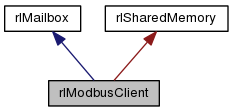
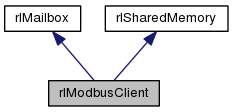
bugfix memoryleak in rlsocket on closesocket

diff --git a/doc/rllib/classrlModbusClient-members.html b/doc/rllib/classrlModbusClient-members.html
@@ -92,54 +92,54 @@ var searchBox = new SearchBox("searchBox", "search",false,'Search');
   <tr><td class="entry"><a class="el" href="classrlMailbox.html#a42dd3ce705f80d0bbfd068222dff6a4aa2d5db9784e32c09f7a0883588ba4d9f0">COULD_NOT_CREATE_MAILBOX</a> enum value</td><td class="entry"><a class="el" href="classrlMailbox.html">rlMailbox</a></td><td class="entry"></td></tr>
   <tr class="even"><td class="entry"><a class="el" href="classrlMailbox.html#a42dd3ce705f80d0bbfd068222dff6a4aa1f33cb4c849558c7f2d84fd0db28e203">COULD_NOT_GET_CHAN_ID</a> enum value</td><td class="entry"><a class="el" href="classrlMailbox.html">rlMailbox</a></td><td class="entry"></td></tr>
   <tr><td class="entry"><a class="el" href="classrlMailbox.html#a42dd3ce705f80d0bbfd068222dff6a4aa7c2128ae7bb7e114bfefc1a875c453d5">COULD_NOT_GET_KEY</a> enum value</td><td class="entry"><a class="el" href="classrlMailbox.html">rlMailbox</a></td><td class="entry"></td></tr>
-  <tr class="even"><td class="entry"><a class="el" href="classrlSharedMemory.html#a0bf250d26a9c57dd3c73d22e5ca98f09">deleteSharedMemory</a>()</td><td class="entry"><a class="el" href="classrlSharedMemory.html">rlSharedMemory</a></td><td class="entry"><span class="mlabel">private</span></td></tr>
-  <tr><td class="entry"><a class="el" href="classrlSharedMemory.html#aa1375e00b92e5a7567a23bdfdb036ae8a2ca716bae614d124d98bf8f74ed0134d">ERROR_FILE</a> enum value</td><td class="entry"><a class="el" href="classrlSharedMemory.html">rlSharedMemory</a></td><td class="entry"><span class="mlabel">private</span></td></tr>
-  <tr class="even"><td class="entry"><a class="el" href="classrlSharedMemory.html#aa1375e00b92e5a7567a23bdfdb036ae8a0db238d56963cbb5b5fc524ecc2affb3">ERROR_SHMAT</a> enum value</td><td class="entry"><a class="el" href="classrlSharedMemory.html">rlSharedMemory</a></td><td class="entry"><span class="mlabel">private</span></td></tr>
-  <tr><td class="entry"><a class="el" href="classrlSharedMemory.html#aa1375e00b92e5a7567a23bdfdb036ae8a9246f094bcbd06239d2fd98bad038e7e">ERROR_SHMCTL</a> enum value</td><td class="entry"><a class="el" href="classrlSharedMemory.html">rlSharedMemory</a></td><td class="entry"><span class="mlabel">private</span></td></tr>
-  <tr class="even"><td class="entry"><a class="el" href="classrlSharedMemory.html#aa1375e00b92e5a7567a23bdfdb036ae8a2aeb0703375cac6aae746caeaea81d5d">ERROR_SHMGET</a> enum value</td><td class="entry"><a class="el" href="classrlSharedMemory.html">rlSharedMemory</a></td><td class="entry"><span class="mlabel">private</span></td></tr>
-  <tr><td class="entry"><a class="el" href="classrlSharedMemory.html#a8f2ac1ae5fe2715c39346be6fa681c12">getUserAdr</a>()</td><td class="entry"><a class="el" href="classrlSharedMemory.html">rlSharedMemory</a></td><td class="entry"><span class="mlabel">private</span></td></tr>
+  <tr class="even"><td class="entry"><a class="el" href="classrlSharedMemory.html#a0bf250d26a9c57dd3c73d22e5ca98f09">deleteSharedMemory</a>()</td><td class="entry"><a class="el" href="classrlSharedMemory.html">rlSharedMemory</a></td><td class="entry"></td></tr>
+  <tr><td class="entry"><a class="el" href="classrlSharedMemory.html#aa1375e00b92e5a7567a23bdfdb036ae8a2ca716bae614d124d98bf8f74ed0134d">ERROR_FILE</a> enum value</td><td class="entry"><a class="el" href="classrlSharedMemory.html">rlSharedMemory</a></td><td class="entry"></td></tr>
+  <tr class="even"><td class="entry"><a class="el" href="classrlSharedMemory.html#aa1375e00b92e5a7567a23bdfdb036ae8a0db238d56963cbb5b5fc524ecc2affb3">ERROR_SHMAT</a> enum value</td><td class="entry"><a class="el" href="classrlSharedMemory.html">rlSharedMemory</a></td><td class="entry"></td></tr>
+  <tr><td class="entry"><a class="el" href="classrlSharedMemory.html#aa1375e00b92e5a7567a23bdfdb036ae8a9246f094bcbd06239d2fd98bad038e7e">ERROR_SHMCTL</a> enum value</td><td class="entry"><a class="el" href="classrlSharedMemory.html">rlSharedMemory</a></td><td class="entry"></td></tr>
+  <tr class="even"><td class="entry"><a class="el" href="classrlSharedMemory.html#aa1375e00b92e5a7567a23bdfdb036ae8a2aeb0703375cac6aae746caeaea81d5d">ERROR_SHMGET</a> enum value</td><td class="entry"><a class="el" href="classrlSharedMemory.html">rlSharedMemory</a></td><td class="entry"></td></tr>
+  <tr><td class="entry"><a class="el" href="classrlSharedMemory.html#a8f2ac1ae5fe2715c39346be6fa681c12">getUserAdr</a>()</td><td class="entry"><a class="el" href="classrlSharedMemory.html">rlSharedMemory</a></td><td class="entry"></td></tr>
   <tr class="even"><td class="entry"><a class="el" href="classrlMailbox.html#a42dd3ce705f80d0bbfd068222dff6a4aa56566ca8baa25529589e069064d96761">MAILBOX_ERROR</a> enum value</td><td class="entry"><a class="el" href="classrlMailbox.html">rlMailbox</a></td><td class="entry"></td></tr>
   <tr><td class="entry"><a class="el" href="classrlMailbox.html#a42dd3ce705f80d0bbfd068222dff6a4aa1d791173dfd19425f877ac5b2e30ddae">MAILBOX_FULL</a> enum value</td><td class="entry"><a class="el" href="classrlMailbox.html">rlMailbox</a></td><td class="entry"></td></tr>
   <tr class="even"><td class="entry"><a class="el" href="classrlMailbox.html#a42dd3ce705f80d0bbfd068222dff6a4a">MailboxEnum</a> enum name</td><td class="entry"><a class="el" href="classrlMailbox.html">rlMailbox</a></td><td class="entry"></td></tr>
   <tr><td class="entry"><a class="el" href="classrlMailbox.html#a42dd3ce705f80d0bbfd068222dff6a4aa62c848b2724300beedf21ec5eeb84554">MAX_MAILBOX</a> enum value</td><td class="entry"><a class="el" href="classrlMailbox.html">rlMailbox</a></td><td class="entry"></td></tr>
   <tr class="even"><td class="entry"><a class="el" href="classrlMailbox.html#a2b6ae3d81531f1e2c3a6b12c705cf147">rlMailbox::name</a></td><td class="entry"><a class="el" href="classrlMailbox.html">rlMailbox</a></td><td class="entry"></td></tr>
-  <tr><td class="entry"><a class="el" href="classrlSharedMemory.html#abb6f27398290b0f82b1ff3e177445acc">rlSharedMemory::name</a></td><td class="entry"><a class="el" href="classrlSharedMemory.html">rlSharedMemory</a></td><td class="entry"><span class="mlabel">private</span></td></tr>
+  <tr><td class="entry"><a class="el" href="classrlSharedMemory.html#abb6f27398290b0f82b1ff3e177445acc">rlSharedMemory::name</a></td><td class="entry"><a class="el" href="classrlSharedMemory.html">rlSharedMemory</a></td><td class="entry"></td></tr>
   <tr class="even"><td class="entry"><a class="el" href="classrlMailbox.html#a42dd3ce705f80d0bbfd068222dff6a4aaf642b101d6e99446818bc6086a1ba6a1">NOWAIT</a> enum value</td><td class="entry"><a class="el" href="classrlMailbox.html">rlMailbox</a></td><td class="entry"></td></tr>
   <tr><td class="entry"><a class="el" href="classrlMailbox.html#a42dd3ce705f80d0bbfd068222dff6a4aa3d11cefc566b82077d6337492f8937aa">rlMailbox::OK</a> enum value</td><td class="entry"><a class="el" href="classrlMailbox.html">rlMailbox</a></td><td class="entry"></td></tr>
-  <tr class="even"><td class="entry"><a class="el" href="classrlSharedMemory.html#aa1375e00b92e5a7567a23bdfdb036ae8a7cb8ffc76ae98203b312b406504bcebb">rlSharedMemory::OK</a> enum value</td><td class="entry"><a class="el" href="classrlSharedMemory.html">rlSharedMemory</a></td><td class="entry"><span class="mlabel">private</span></td></tr>
+  <tr class="even"><td class="entry"><a class="el" href="classrlSharedMemory.html#aa1375e00b92e5a7567a23bdfdb036ae8a7cb8ffc76ae98203b312b406504bcebb">rlSharedMemory::OK</a> enum value</td><td class="entry"><a class="el" href="classrlSharedMemory.html">rlSharedMemory</a></td><td class="entry"></td></tr>
   <tr><td class="entry"><a class="el" href="classrlMailbox.html#a248f342fca5464191b38c5446ccd895a">printf</a>(const char *format,...)</td><td class="entry"><a class="el" href="classrlMailbox.html">rlMailbox</a></td><td class="entry"></td></tr>
   <tr class="even"><td class="entry"><a class="el" href="classrlMailbox.html#af7ee62a6465a5e15ac5f912ff488e13c">rlMailbox::read</a>(void *buf, int maxlen, int wait=WAIT)</td><td class="entry"><a class="el" href="classrlMailbox.html">rlMailbox</a></td><td class="entry"></td></tr>
-  <tr><td class="entry"><a class="el" href="classrlSharedMemory.html#aad15636d30ccc89649304ce9263e709f">rlSharedMemory::read</a>(unsigned long offset, void *buf, int len)</td><td class="entry"><a class="el" href="classrlSharedMemory.html">rlSharedMemory</a></td><td class="entry"><span class="mlabel">private</span></td></tr>
+  <tr><td class="entry"><a class="el" href="classrlSharedMemory.html#aad15636d30ccc89649304ce9263e709f">rlSharedMemory::read</a>(unsigned long offset, void *buf, int len)</td><td class="entry"><a class="el" href="classrlSharedMemory.html">rlSharedMemory</a></td><td class="entry"></td></tr>
   <tr class="even"><td class="entry"><a class="el" href="classrlModbusClient.html#a1c9eac67414392c107c74076cda9d633">readBit</a>(int offset, int number)</td><td class="entry"><a class="el" href="classrlModbusClient.html">rlModbusClient</a></td><td class="entry"></td></tr>
   <tr><td class="entry"><a class="el" href="classrlModbusClient.html#a0a76e60f2b234c0cc72be5c0e3e6022a">readByte</a>(int offset, int number)</td><td class="entry"><a class="el" href="classrlModbusClient.html">rlModbusClient</a></td><td class="entry"></td></tr>
-  <tr class="even"><td class="entry"><a class="el" href="classrlSharedMemory.html#a5e0532a6d43790db19e43edc508d1716">rlSharedMemory::readByte</a>(unsigned long offset, int index)</td><td class="entry"><a class="el" href="classrlSharedMemory.html">rlSharedMemory</a></td><td class="entry"><span class="mlabel">private</span></td></tr>
-  <tr><td class="entry"><a class="el" href="classrlSharedMemory.html#abc92a7f0855afc4ae6c84559a73f7853">readFloat</a>(unsigned long offset, int index)</td><td class="entry"><a class="el" href="classrlSharedMemory.html">rlSharedMemory</a></td><td class="entry"><span class="mlabel">private</span></td></tr>
-  <tr class="even"><td class="entry"><a class="el" href="classrlSharedMemory.html#a7655f93ceb541ca363ad745620a65426">readInt</a>(unsigned long offset, int index)</td><td class="entry"><a class="el" href="classrlSharedMemory.html">rlSharedMemory</a></td><td class="entry"><span class="mlabel">private</span></td></tr>
+  <tr class="even"><td class="entry"><a class="el" href="classrlSharedMemory.html#a5e0532a6d43790db19e43edc508d1716">rlSharedMemory::readByte</a>(unsigned long offset, int index)</td><td class="entry"><a class="el" href="classrlSharedMemory.html">rlSharedMemory</a></td><td class="entry"></td></tr>
+  <tr><td class="entry"><a class="el" href="classrlSharedMemory.html#abc92a7f0855afc4ae6c84559a73f7853">readFloat</a>(unsigned long offset, int index)</td><td class="entry"><a class="el" href="classrlSharedMemory.html">rlSharedMemory</a></td><td class="entry"></td></tr>
+  <tr class="even"><td class="entry"><a class="el" href="classrlSharedMemory.html#a7655f93ceb541ca363ad745620a65426">readInt</a>(unsigned long offset, int index)</td><td class="entry"><a class="el" href="classrlSharedMemory.html">rlSharedMemory</a></td><td class="entry"></td></tr>
   <tr><td class="entry"><a class="el" href="classrlModbusClient.html#af72a74c6badf2519492d7d05dc9628d6">readShort</a>(int offset, int number)</td><td class="entry"><a class="el" href="classrlModbusClient.html">rlModbusClient</a></td><td class="entry"></td></tr>
-  <tr class="even"><td class="entry"><a class="el" href="classrlSharedMemory.html#aea36a14febba55dbf92e2050aa9c18d7">rlSharedMemory::readShort</a>(unsigned long offset, int index)</td><td class="entry"><a class="el" href="classrlSharedMemory.html">rlSharedMemory</a></td><td class="entry"><span class="mlabel">private</span></td></tr>
+  <tr class="even"><td class="entry"><a class="el" href="classrlSharedMemory.html#aea36a14febba55dbf92e2050aa9c18d7">rlSharedMemory::readShort</a>(unsigned long offset, int index)</td><td class="entry"><a class="el" href="classrlSharedMemory.html">rlSharedMemory</a></td><td class="entry"></td></tr>
   <tr><td class="entry"><a class="el" href="classrlMailbox.html#a3901db614a18089808dec98973f1a090">rlMailbox</a>(const char *name)</td><td class="entry"><a class="el" href="classrlMailbox.html">rlMailbox</a></td><td class="entry"></td></tr>
   <tr class="even"><td class="entry"><a class="el" href="classrlModbusClient.html#a13fa267c8f9c454d6b426550ee94303c">rlModbusClient</a>(const char *mbxname, const char *shmname, int shmsize)</td><td class="entry"><a class="el" href="classrlModbusClient.html">rlModbusClient</a></td><td class="entry"></td></tr>
-  <tr><td class="entry"><a class="el" href="classrlSharedMemory.html#a3e70ce386b12e4b08800578380605d59">rlSharedMemory</a>(const char *name, unsigned long size, int rwmode=0600)</td><td class="entry"><a class="el" href="classrlSharedMemory.html">rlSharedMemory</a></td><td class="entry"><span class="mlabel">private</span></td></tr>
-  <tr class="even"><td class="entry"><a class="el" href="classrlSharedMemory.html#aa1375e00b92e5a7567a23bdfdb036ae8">SharedMemoryEnum</a> enum name</td><td class="entry"><a class="el" href="classrlSharedMemory.html">rlSharedMemory</a></td><td class="entry"><span class="mlabel">private</span></td></tr>
-  <tr><td class="entry"><a class="el" href="classrlSharedMemory.html#ae2d0562b6cd1a7e16d7f80cd21ae8d3a">shmId</a>()</td><td class="entry"><a class="el" href="classrlSharedMemory.html">rlSharedMemory</a></td><td class="entry"><span class="mlabel">private</span></td></tr>
-  <tr class="even"><td class="entry"><a class="el" href="classrlSharedMemory.html#a2ba4572a598ca60b3d1b21f0f202917d">shmKey</a>()</td><td class="entry"><a class="el" href="classrlSharedMemory.html">rlSharedMemory</a></td><td class="entry"><span class="mlabel">private</span></td></tr>
+  <tr><td class="entry"><a class="el" href="classrlSharedMemory.html#a3e70ce386b12e4b08800578380605d59">rlSharedMemory</a>(const char *name, unsigned long size, int rwmode=0600)</td><td class="entry"><a class="el" href="classrlSharedMemory.html">rlSharedMemory</a></td><td class="entry"></td></tr>
+  <tr class="even"><td class="entry"><a class="el" href="classrlSharedMemory.html#aa1375e00b92e5a7567a23bdfdb036ae8">SharedMemoryEnum</a> enum name</td><td class="entry"><a class="el" href="classrlSharedMemory.html">rlSharedMemory</a></td><td class="entry"></td></tr>
+  <tr><td class="entry"><a class="el" href="classrlSharedMemory.html#ae2d0562b6cd1a7e16d7f80cd21ae8d3a">shmId</a>()</td><td class="entry"><a class="el" href="classrlSharedMemory.html">rlSharedMemory</a></td><td class="entry"></td></tr>
+  <tr class="even"><td class="entry"><a class="el" href="classrlSharedMemory.html#a2ba4572a598ca60b3d1b21f0f202917d">shmKey</a>()</td><td class="entry"><a class="el" href="classrlSharedMemory.html">rlSharedMemory</a></td><td class="entry"></td></tr>
   <tr><td class="entry"><a class="el" href="classrlMailbox.html#ad9c9c09ddae985634ebecdf6a7271945">rlMailbox::status</a></td><td class="entry"><a class="el" href="classrlMailbox.html">rlMailbox</a></td><td class="entry"></td></tr>
-  <tr class="even"><td class="entry"><a class="el" href="classrlSharedMemory.html#adabbcd3725ed8cbc322f9e8f25c22c90">rlSharedMemory::status</a></td><td class="entry"><a class="el" href="classrlSharedMemory.html">rlSharedMemory</a></td><td class="entry"><span class="mlabel">private</span></td></tr>
+  <tr class="even"><td class="entry"><a class="el" href="classrlSharedMemory.html#adabbcd3725ed8cbc322f9e8f25c22c90">rlSharedMemory::status</a></td><td class="entry"><a class="el" href="classrlSharedMemory.html">rlSharedMemory</a></td><td class="entry"></td></tr>
   <tr><td class="entry"><a class="el" href="classrlMailbox.html#a42dd3ce705f80d0bbfd068222dff6a4aaeb9ee2f2655f5f8a3ea2b51c2c7a6cb8">WAIT</a> enum value</td><td class="entry"><a class="el" href="classrlMailbox.html">rlMailbox</a></td><td class="entry"></td></tr>
   <tr class="even"><td class="entry"><a class="el" href="classrlModbusClient.html#a57deea541f61e3584ba726df92bff2bc">write</a>(int slave, int function, const unsigned char *data, int len)</td><td class="entry"><a class="el" href="classrlModbusClient.html">rlModbusClient</a></td><td class="entry"></td></tr>
   <tr><td class="entry"><a class="el" href="classrlMailbox.html#a85f5a7129838abdb0f2c92c6b3c2a303">rlMailbox::write</a>(const void *buf, int len)</td><td class="entry"><a class="el" href="classrlMailbox.html">rlMailbox</a></td><td class="entry"></td></tr>
-  <tr class="even"><td class="entry"><a class="el" href="classrlSharedMemory.html#a1e70f49eb1ab8aa6563b0353ff1425c2">rlSharedMemory::write</a>(unsigned long offset, const void *buf, int len)</td><td class="entry"><a class="el" href="classrlSharedMemory.html">rlSharedMemory</a></td><td class="entry"><span class="mlabel">private</span></td></tr>
-  <tr><td class="entry"><a class="el" href="classrlSharedMemory.html#a738851091f53b27222bb73c567a0ec02">writeByte</a>(unsigned long offset, int index, unsigned char val)</td><td class="entry"><a class="el" href="classrlSharedMemory.html">rlSharedMemory</a></td><td class="entry"><span class="mlabel">private</span></td></tr>
-  <tr class="even"><td class="entry"><a class="el" href="classrlSharedMemory.html#a9d077dc749cd31cc22163bc7181ebefa">writeFloat</a>(unsigned long offset, int index, float val)</td><td class="entry"><a class="el" href="classrlSharedMemory.html">rlSharedMemory</a></td><td class="entry"><span class="mlabel">private</span></td></tr>
-  <tr><td class="entry"><a class="el" href="classrlSharedMemory.html#ab5aa8f549deae6ebe201275351d87277">writeInt</a>(unsigned long offset, int index, int val)</td><td class="entry"><a class="el" href="classrlSharedMemory.html">rlSharedMemory</a></td><td class="entry"><span class="mlabel">private</span></td></tr>
+  <tr class="even"><td class="entry"><a class="el" href="classrlSharedMemory.html#a1e70f49eb1ab8aa6563b0353ff1425c2">rlSharedMemory::write</a>(unsigned long offset, const void *buf, int len)</td><td class="entry"><a class="el" href="classrlSharedMemory.html">rlSharedMemory</a></td><td class="entry"></td></tr>
+  <tr><td class="entry"><a class="el" href="classrlSharedMemory.html#a738851091f53b27222bb73c567a0ec02">writeByte</a>(unsigned long offset, int index, unsigned char val)</td><td class="entry"><a class="el" href="classrlSharedMemory.html">rlSharedMemory</a></td><td class="entry"></td></tr>
+  <tr class="even"><td class="entry"><a class="el" href="classrlSharedMemory.html#a9d077dc749cd31cc22163bc7181ebefa">writeFloat</a>(unsigned long offset, int index, float val)</td><td class="entry"><a class="el" href="classrlSharedMemory.html">rlSharedMemory</a></td><td class="entry"></td></tr>
+  <tr><td class="entry"><a class="el" href="classrlSharedMemory.html#ab5aa8f549deae6ebe201275351d87277">writeInt</a>(unsigned long offset, int index, int val)</td><td class="entry"><a class="el" href="classrlSharedMemory.html">rlSharedMemory</a></td><td class="entry"></td></tr>
   <tr class="even"><td class="entry"><a class="el" href="classrlModbusClient.html#a4e7f34600028d713ea8110da40125863">writeMultipleCoils</a>(int slave, int adr, const unsigned char *values, int num_coils)</td><td class="entry"><a class="el" href="classrlModbusClient.html">rlModbusClient</a></td><td class="entry"></td></tr>
   <tr><td class="entry"><a class="el" href="classrlModbusClient.html#a2f4c3380fd6833e29c9c2e81cd1c068a">writePresetMultipleRegisters</a>(int slave, int adr, const int *values, int num_values)</td><td class="entry"><a class="el" href="classrlModbusClient.html">rlModbusClient</a></td><td class="entry"></td></tr>
   <tr class="even"><td class="entry"><a class="el" href="classrlModbusClient.html#a533b111824571b08cf73de73ef099075">writePresetSingleRegister</a>(int slave, int adr, int value)</td><td class="entry"><a class="el" href="classrlModbusClient.html">rlModbusClient</a></td><td class="entry"></td></tr>
-  <tr><td class="entry"><a class="el" href="classrlSharedMemory.html#a4eea136f746fe2181687c151ac05e048">writeShort</a>(unsigned long offset, int index, int val)</td><td class="entry"><a class="el" href="classrlSharedMemory.html">rlSharedMemory</a></td><td class="entry"><span class="mlabel">private</span></td></tr>
+  <tr><td class="entry"><a class="el" href="classrlSharedMemory.html#a4eea136f746fe2181687c151ac05e048">writeShort</a>(unsigned long offset, int index, int val)</td><td class="entry"><a class="el" href="classrlSharedMemory.html">rlSharedMemory</a></td><td class="entry"></td></tr>
   <tr class="even"><td class="entry"><a class="el" href="classrlModbusClient.html#a92a7a190b3421622d8a39aadbec066ac">writeSingleCoil</a>(int slave, int adr, int value)</td><td class="entry"><a class="el" href="classrlModbusClient.html">rlModbusClient</a></td><td class="entry"></td></tr>
   <tr><td class="entry"><a class="el" href="classrlMailbox.html#a9756230ee1f87f8f862a6f4f1ccb54cc">~rlMailbox</a>()</td><td class="entry"><a class="el" href="classrlMailbox.html">rlMailbox</a></td><td class="entry"><span class="mlabel">virtual</span></td></tr>
   <tr class="even"><td class="entry"><a class="el" href="classrlModbusClient.html#ae1f2fa869aadd8321cb5f300b75999ce">~rlModbusClient</a>()</td><td class="entry"><a class="el" href="classrlModbusClient.html">rlModbusClient</a></td><td class="entry"><span class="mlabel">virtual</span></td></tr>
-  <tr><td class="entry"><a class="el" href="classrlSharedMemory.html#add0a7e3cc167b78ee855ab8eace6b4b5">~rlSharedMemory</a>()</td><td class="entry"><a class="el" href="classrlSharedMemory.html">rlSharedMemory</a></td><td class="entry"><span class="mlabel">private</span><span class="mlabel">virtual</span></td></tr>
+  <tr><td class="entry"><a class="el" href="classrlSharedMemory.html#add0a7e3cc167b78ee855ab8eace6b4b5">~rlSharedMemory</a>()</td><td class="entry"><a class="el" href="classrlSharedMemory.html">rlSharedMemory</a></td><td class="entry"><span class="mlabel">virtual</span></td></tr>
 </table></div><!-- contents -->
 <!-- start footer part -->
 <hr class="footer"/><address class="footer"><small>

diff --git a/doc/rllib/classrlModbusClient.html b/doc/rllib/classrlModbusClient.html
@@ -140,42 +140,7 @@ Public Member Functions</h2></td></tr>
 <tr class="separator:af7ee62a6465a5e15ac5f912ff488e13c inherit pub_methods_classrlMailbox"><td class="memSeparator" colspan="2">&#160;</td></tr>
 <tr class="memitem:a4e7174ec8a8843184c25327947d8add1 inherit pub_methods_classrlMailbox"><td class="memItemLeft" align="right" valign="top">void&#160;</td><td class="memItemRight" valign="bottom"><a class="el" href="classrlMailbox.html#a4e7174ec8a8843184c25327947d8add1">clear</a> ()</td></tr>
 <tr class="separator:a4e7174ec8a8843184c25327947d8add1 inherit pub_methods_classrlMailbox"><td class="memSeparator" colspan="2">&#160;</td></tr>
-</table><table class="memberdecls">
-<tr class="heading"><td colspan="2"><h2 class="groupheader"><a name="inherited"></a>
-Additional Inherited Members</h2></td></tr>
-<tr class="inherit_header pub_types_classrlMailbox"><td colspan="2" onclick="javascript:toggleInherit('pub_types_classrlMailbox')"><img src="closed.png" alt="-"/>&#160;Public Types inherited from <a class="el" href="classrlMailbox.html">rlMailbox</a></td></tr>
-<tr class="memitem:a42dd3ce705f80d0bbfd068222dff6a4a inherit pub_types_classrlMailbox"><td class="memItemLeft" align="right" valign="top">enum &#160;</td><td class="memItemRight" valign="bottom"><a class="el" href="classrlMailbox.html#a42dd3ce705f80d0bbfd068222dff6a4a">MailboxEnum</a> { <br/>
-&#160;&#160;<a class="el" href="classrlMailbox.html#a42dd3ce705f80d0bbfd068222dff6a4aa56566ca8baa25529589e069064d96761">MAILBOX_ERROR</a> = -1, 
-<a class="el" href="classrlMailbox.html#a42dd3ce705f80d0bbfd068222dff6a4aa1d791173dfd19425f877ac5b2e30ddae">MAILBOX_FULL</a> = -2, 
-<a class="el" href="classrlMailbox.html#a42dd3ce705f80d0bbfd068222dff6a4aaeb9ee2f2655f5f8a3ea2b51c2c7a6cb8">WAIT</a> = 1, 
-<a class="el" href="classrlMailbox.html#a42dd3ce705f80d0bbfd068222dff6a4aaf642b101d6e99446818bc6086a1ba6a1">NOWAIT</a> = 0, 
-<br/>
-&#160;&#160;<a class="el" href="classrlMailbox.html#a42dd3ce705f80d0bbfd068222dff6a4aa62c848b2724300beedf21ec5eeb84554">MAX_MAILBOX</a> = 256*256, 
-<a class="el" href="classrlMailbox.html#a42dd3ce705f80d0bbfd068222dff6a4aa3d11cefc566b82077d6337492f8937aa">OK</a> = 2, 
-<a class="el" href="classrlMailbox.html#a42dd3ce705f80d0bbfd068222dff6a4aa2d5db9784e32c09f7a0883588ba4d9f0">COULD_NOT_CREATE_MAILBOX</a> = 3, 
-<a class="el" href="classrlMailbox.html#a42dd3ce705f80d0bbfd068222dff6a4aa7c2128ae7bb7e114bfefc1a875c453d5">COULD_NOT_GET_KEY</a> = 4, 
-<br/>
-&#160;&#160;<a class="el" href="classrlMailbox.html#a42dd3ce705f80d0bbfd068222dff6a4aa1f33cb4c849558c7f2d84fd0db28e203">COULD_NOT_GET_CHAN_ID</a> = 5
-<br/>
- }</td></tr>
-<tr class="separator:a42dd3ce705f80d0bbfd068222dff6a4a inherit pub_types_classrlMailbox"><td class="memSeparator" colspan="2">&#160;</td></tr>
-<tr class="inherit_header pub_attribs_classrlMailbox"><td colspan="2" onclick="javascript:toggleInherit('pub_attribs_classrlMailbox')"><img src="closed.png" alt="-"/>&#160;Public Attributes inherited from <a class="el" href="classrlMailbox.html">rlMailbox</a></td></tr>
-<tr class="memitem:ad9c9c09ddae985634ebecdf6a7271945 inherit pub_attribs_classrlMailbox"><td class="memItemLeft" align="right" valign="top">int&#160;</td><td class="memItemRight" valign="bottom"><a class="el" href="classrlMailbox.html#ad9c9c09ddae985634ebecdf6a7271945">status</a></td></tr>
-<tr class="separator:ad9c9c09ddae985634ebecdf6a7271945 inherit pub_attribs_classrlMailbox"><td class="memSeparator" colspan="2">&#160;</td></tr>
-<tr class="memitem:a2b6ae3d81531f1e2c3a6b12c705cf147 inherit pub_attribs_classrlMailbox"><td class="memItemLeft" align="right" valign="top">char *&#160;</td><td class="memItemRight" valign="bottom"><a class="el" href="classrlMailbox.html#a2b6ae3d81531f1e2c3a6b12c705cf147">name</a></td></tr>
-<tr class="separator:a2b6ae3d81531f1e2c3a6b12c705cf147 inherit pub_attribs_classrlMailbox"><td class="memSeparator" colspan="2">&#160;</td></tr>
-<tr class="inherit_header pub_types_classrlSharedMemory"><td colspan="2" onclick="javascript:toggleInherit('pub_types_classrlSharedMemory')"><img src="closed.png" alt="-"/>&#160;Private Types inherited from <a class="el" href="classrlSharedMemory.html">rlSharedMemory</a></td></tr>
-<tr class="memitem:aa1375e00b92e5a7567a23bdfdb036ae8 inherit pub_types_classrlSharedMemory"><td class="memItemLeft" align="right" valign="top">enum &#160;</td><td class="memItemRight" valign="bottom"><a class="el" href="classrlSharedMemory.html#aa1375e00b92e5a7567a23bdfdb036ae8">SharedMemoryEnum</a> { <br/>
-&#160;&#160;<a class="el" href="classrlSharedMemory.html#aa1375e00b92e5a7567a23bdfdb036ae8a7cb8ffc76ae98203b312b406504bcebb">OK</a> = 0, 
-<a class="el" href="classrlSharedMemory.html#aa1375e00b92e5a7567a23bdfdb036ae8a2ca716bae614d124d98bf8f74ed0134d">ERROR_FILE</a>, 
-<a class="el" href="classrlSharedMemory.html#aa1375e00b92e5a7567a23bdfdb036ae8a2aeb0703375cac6aae746caeaea81d5d">ERROR_SHMGET</a>, 
-<a class="el" href="classrlSharedMemory.html#aa1375e00b92e5a7567a23bdfdb036ae8a0db238d56963cbb5b5fc524ecc2affb3">ERROR_SHMAT</a>, 
-<br/>
-&#160;&#160;<a class="el" href="classrlSharedMemory.html#aa1375e00b92e5a7567a23bdfdb036ae8a9246f094bcbd06239d2fd98bad038e7e">ERROR_SHMCTL</a>
-<br/>
- }</td></tr>
-<tr class="separator:aa1375e00b92e5a7567a23bdfdb036ae8 inherit pub_types_classrlSharedMemory"><td class="memSeparator" colspan="2">&#160;</td></tr>
-<tr class="inherit_header pub_methods_classrlSharedMemory"><td colspan="2" onclick="javascript:toggleInherit('pub_methods_classrlSharedMemory')"><img src="closed.png" alt="-"/>&#160;Private Member Functions inherited from <a class="el" href="classrlSharedMemory.html">rlSharedMemory</a></td></tr>
+<tr class="inherit_header pub_methods_classrlSharedMemory"><td colspan="2" onclick="javascript:toggleInherit('pub_methods_classrlSharedMemory')"><img src="closed.png" alt="-"/>&#160;Public Member Functions inherited from <a class="el" href="classrlSharedMemory.html">rlSharedMemory</a></td></tr>
 <tr class="memitem:a3e70ce386b12e4b08800578380605d59 inherit pub_methods_classrlSharedMemory"><td class="memItemLeft" align="right" valign="top">&#160;</td><td class="memItemRight" valign="bottom"><a class="el" href="classrlSharedMemory.html#a3e70ce386b12e4b08800578380605d59">rlSharedMemory</a> (const char *<a class="el" href="classrlSharedMemory.html#abb6f27398290b0f82b1ff3e177445acc">name</a>, unsigned long <a class="el" href="classrlSharedMemory.html#a088f5f5ae7da2aa17c6d8437ffe2e6d6">size</a>, int rwmode=0600)</td></tr>
 <tr class="separator:a3e70ce386b12e4b08800578380605d59 inherit pub_methods_classrlSharedMemory"><td class="memSeparator" colspan="2">&#160;</td></tr>
 <tr class="memitem:add0a7e3cc167b78ee855ab8eace6b4b5 inherit pub_methods_classrlSharedMemory"><td class="memItemLeft" align="right" valign="top">virtual&#160;</td><td class="memItemRight" valign="bottom"><a class="el" href="classrlSharedMemory.html#add0a7e3cc167b78ee855ab8eace6b4b5">~rlSharedMemory</a> ()</td></tr>
@@ -208,7 +173,42 @@ Additional Inherited Members</h2></td></tr>
 <tr class="separator:a2ba4572a598ca60b3d1b21f0f202917d inherit pub_methods_classrlSharedMemory"><td class="memSeparator" colspan="2">&#160;</td></tr>
 <tr class="memitem:ae2d0562b6cd1a7e16d7f80cd21ae8d3a inherit pub_methods_classrlSharedMemory"><td class="memItemLeft" align="right" valign="top">int&#160;</td><td class="memItemRight" valign="bottom"><a class="el" href="classrlSharedMemory.html#ae2d0562b6cd1a7e16d7f80cd21ae8d3a">shmId</a> ()</td></tr>
 <tr class="separator:ae2d0562b6cd1a7e16d7f80cd21ae8d3a inherit pub_methods_classrlSharedMemory"><td class="memSeparator" colspan="2">&#160;</td></tr>
-<tr class="inherit_header pub_attribs_classrlSharedMemory"><td colspan="2" onclick="javascript:toggleInherit('pub_attribs_classrlSharedMemory')"><img src="closed.png" alt="-"/>&#160;Private Attributes inherited from <a class="el" href="classrlSharedMemory.html">rlSharedMemory</a></td></tr>
+</table><table class="memberdecls">
+<tr class="heading"><td colspan="2"><h2 class="groupheader"><a name="inherited"></a>
+Additional Inherited Members</h2></td></tr>
+<tr class="inherit_header pub_types_classrlMailbox"><td colspan="2" onclick="javascript:toggleInherit('pub_types_classrlMailbox')"><img src="closed.png" alt="-"/>&#160;Public Types inherited from <a class="el" href="classrlMailbox.html">rlMailbox</a></td></tr>
+<tr class="memitem:a42dd3ce705f80d0bbfd068222dff6a4a inherit pub_types_classrlMailbox"><td class="memItemLeft" align="right" valign="top">enum &#160;</td><td class="memItemRight" valign="bottom"><a class="el" href="classrlMailbox.html#a42dd3ce705f80d0bbfd068222dff6a4a">MailboxEnum</a> { <br/>
+&#160;&#160;<a class="el" href="classrlMailbox.html#a42dd3ce705f80d0bbfd068222dff6a4aa56566ca8baa25529589e069064d96761">MAILBOX_ERROR</a> = -1, 
+<a class="el" href="classrlMailbox.html#a42dd3ce705f80d0bbfd068222dff6a4aa1d791173dfd19425f877ac5b2e30ddae">MAILBOX_FULL</a> = -2, 
+<a class="el" href="classrlMailbox.html#a42dd3ce705f80d0bbfd068222dff6a4aaeb9ee2f2655f5f8a3ea2b51c2c7a6cb8">WAIT</a> = 1, 
+<a class="el" href="classrlMailbox.html#a42dd3ce705f80d0bbfd068222dff6a4aaf642b101d6e99446818bc6086a1ba6a1">NOWAIT</a> = 0, 
+<br/>
+&#160;&#160;<a class="el" href="classrlMailbox.html#a42dd3ce705f80d0bbfd068222dff6a4aa62c848b2724300beedf21ec5eeb84554">MAX_MAILBOX</a> = 256*256, 
+<a class="el" href="classrlMailbox.html#a42dd3ce705f80d0bbfd068222dff6a4aa3d11cefc566b82077d6337492f8937aa">OK</a> = 2, 
+<a class="el" href="classrlMailbox.html#a42dd3ce705f80d0bbfd068222dff6a4aa2d5db9784e32c09f7a0883588ba4d9f0">COULD_NOT_CREATE_MAILBOX</a> = 3, 
+<a class="el" href="classrlMailbox.html#a42dd3ce705f80d0bbfd068222dff6a4aa7c2128ae7bb7e114bfefc1a875c453d5">COULD_NOT_GET_KEY</a> = 4, 
+<br/>
+&#160;&#160;<a class="el" href="classrlMailbox.html#a42dd3ce705f80d0bbfd068222dff6a4aa1f33cb4c849558c7f2d84fd0db28e203">COULD_NOT_GET_CHAN_ID</a> = 5
+<br/>
+ }</td></tr>
+<tr class="separator:a42dd3ce705f80d0bbfd068222dff6a4a inherit pub_types_classrlMailbox"><td class="memSeparator" colspan="2">&#160;</td></tr>
+<tr class="inherit_header pub_types_classrlSharedMemory"><td colspan="2" onclick="javascript:toggleInherit('pub_types_classrlSharedMemory')"><img src="closed.png" alt="-"/>&#160;Public Types inherited from <a class="el" href="classrlSharedMemory.html">rlSharedMemory</a></td></tr>
+<tr class="memitem:aa1375e00b92e5a7567a23bdfdb036ae8 inherit pub_types_classrlSharedMemory"><td class="memItemLeft" align="right" valign="top">enum &#160;</td><td class="memItemRight" valign="bottom"><a class="el" href="classrlSharedMemory.html#aa1375e00b92e5a7567a23bdfdb036ae8">SharedMemoryEnum</a> { <br/>
+&#160;&#160;<a class="el" href="classrlSharedMemory.html#aa1375e00b92e5a7567a23bdfdb036ae8a7cb8ffc76ae98203b312b406504bcebb">OK</a> = 0, 
+<a class="el" href="classrlSharedMemory.html#aa1375e00b92e5a7567a23bdfdb036ae8a2ca716bae614d124d98bf8f74ed0134d">ERROR_FILE</a>, 
+<a class="el" href="classrlSharedMemory.html#aa1375e00b92e5a7567a23bdfdb036ae8a2aeb0703375cac6aae746caeaea81d5d">ERROR_SHMGET</a>, 
+<a class="el" href="classrlSharedMemory.html#aa1375e00b92e5a7567a23bdfdb036ae8a0db238d56963cbb5b5fc524ecc2affb3">ERROR_SHMAT</a>, 
+<br/>
+&#160;&#160;<a class="el" href="classrlSharedMemory.html#aa1375e00b92e5a7567a23bdfdb036ae8a9246f094bcbd06239d2fd98bad038e7e">ERROR_SHMCTL</a>
+<br/>
+ }</td></tr>
+<tr class="separator:aa1375e00b92e5a7567a23bdfdb036ae8 inherit pub_types_classrlSharedMemory"><td class="memSeparator" colspan="2">&#160;</td></tr>
+<tr class="inherit_header pub_attribs_classrlMailbox"><td colspan="2" onclick="javascript:toggleInherit('pub_attribs_classrlMailbox')"><img src="closed.png" alt="-"/>&#160;Public Attributes inherited from <a class="el" href="classrlMailbox.html">rlMailbox</a></td></tr>
+<tr class="memitem:ad9c9c09ddae985634ebecdf6a7271945 inherit pub_attribs_classrlMailbox"><td class="memItemLeft" align="right" valign="top">int&#160;</td><td class="memItemRight" valign="bottom"><a class="el" href="classrlMailbox.html#ad9c9c09ddae985634ebecdf6a7271945">status</a></td></tr>
+<tr class="separator:ad9c9c09ddae985634ebecdf6a7271945 inherit pub_attribs_classrlMailbox"><td class="memSeparator" colspan="2">&#160;</td></tr>
+<tr class="memitem:a2b6ae3d81531f1e2c3a6b12c705cf147 inherit pub_attribs_classrlMailbox"><td class="memItemLeft" align="right" valign="top">char *&#160;</td><td class="memItemRight" valign="bottom"><a class="el" href="classrlMailbox.html#a2b6ae3d81531f1e2c3a6b12c705cf147">name</a></td></tr>
+<tr class="separator:a2b6ae3d81531f1e2c3a6b12c705cf147 inherit pub_attribs_classrlMailbox"><td class="memSeparator" colspan="2">&#160;</td></tr>
+<tr class="inherit_header pub_attribs_classrlSharedMemory"><td colspan="2" onclick="javascript:toggleInherit('pub_attribs_classrlSharedMemory')"><img src="closed.png" alt="-"/>&#160;Public Attributes inherited from <a class="el" href="classrlSharedMemory.html">rlSharedMemory</a></td></tr>
 <tr class="memitem:adabbcd3725ed8cbc322f9e8f25c22c90 inherit pub_attribs_classrlSharedMemory"><td class="memItemLeft" align="right" valign="top">int&#160;</td><td class="memItemRight" valign="bottom"><a class="el" href="classrlSharedMemory.html#adabbcd3725ed8cbc322f9e8f25c22c90">status</a></td></tr>
 <tr class="separator:adabbcd3725ed8cbc322f9e8f25c22c90 inherit pub_attribs_classrlSharedMemory"><td class="memSeparator" colspan="2">&#160;</td></tr>
 <tr class="memitem:abb6f27398290b0f82b1ff3e177445acc inherit pub_attribs_classrlSharedMemory"><td class="memItemLeft" align="right" valign="top">char *&#160;</td><td class="memItemRight" valign="bottom"><a class="el" href="classrlSharedMemory.html#abb6f27398290b0f82b1ff3e177445acc">name</a></td></tr>

diff --git a/doc/rllib/rlmodbusclient_8h_source.html b/doc/rllib/rlmodbusclient_8h_source.html
@@ -110,7 +110,7 @@ var searchBox = new SearchBox("searchBox", "search",false,'Search');
 <div class="line"><a name="l00021"></a><span class="lineno">   21</span>&#160;<span class="preprocessor">#include &quot;<a class="code" href="rlsharedmemory_8h.html">rlsharedmemory.h</a>&quot;</span></div>
 <div class="line"><a name="l00022"></a><span class="lineno">   22</span>&#160;<span class="preprocessor">#include &quot;<a class="code" href="rlmodbus_8h.html">rlmodbus.h</a>&quot;</span></div>
 <div class="line"><a name="l00023"></a><span class="lineno">   23</span>&#160;</div>
-<div class="line"><a name="l00028"></a><span class="lineno"><a class="code" href="classrlModbusClient.html">   28</a></span>&#160;<span class="keyword">class </span><a class="code" href="classrlModbusClient.html">rlModbusClient</a> : <span class="keyword">public</span> <a class="code" href="classrlMailbox.html">rlMailbox</a>, <a class="code" href="classrlSharedMemory.html">rlSharedMemory</a></div>
+<div class="line"><a name="l00028"></a><span class="lineno"><a class="code" href="classrlModbusClient.html">   28</a></span>&#160;<span class="keyword">class </span><a class="code" href="classrlModbusClient.html">rlModbusClient</a> : <span class="keyword">public</span> <a class="code" href="classrlMailbox.html">rlMailbox</a>, <span class="keyword">public</span> <a class="code" href="classrlSharedMemory.html">rlSharedMemory</a></div>
 <div class="line"><a name="l00029"></a><span class="lineno">   29</span>&#160;{</div>
 <div class="line"><a name="l00030"></a><span class="lineno">   30</span>&#160;  <span class="keyword">public</span>:</div>
 <div class="line"><a name="l00031"></a><span class="lineno">   31</span>&#160;    <a class="code" href="classrlModbusClient.html#a13fa267c8f9c454d6b426550ee94303c">rlModbusClient</a>(<span class="keyword">const</span> <span class="keywordtype">char</span> *mbxname, <span class="keyword">const</span> <span class="keywordtype">char</span> *shmname, <span class="keywordtype">int</span> shmsize);</div>

diff --git a/doc/rllib/rlsocket_8cpp_source.html b/doc/rllib/rlsocket_8cpp_source.html
@@ -508,7 +508,7 @@ var searchBox = new SearchBox("searchBox", "search",false,'Search');
 <div class="line"><a name="l00419"></a><span class="lineno">  419</span>&#160;      <span class="comment">//::printf(&quot;debug: connect ret=%d\n&quot;,ret);</span></div>
 <div class="line"><a name="l00420"></a><span class="lineno">  420</span>&#160;      <span class="keywordflow">if</span>(ret == -1) </div>
 <div class="line"><a name="l00421"></a><span class="lineno">  421</span>&#160;      {</div>
-<div class="line"><a name="l00422"></a><span class="lineno">  422</span>&#160;        <a class="code" href="classrlSocket.html#a3f70186af86837a39592e4bf18076d24">s</a> = -1;</div>
+<div class="line"><a name="l00422"></a><span class="lineno">  422</span>&#160;        <a class="code" href="classrlSocket.html#a112affb864caf6ef57b5f226c1894446">disconnect</a>(); <span class="comment">// close s = os</span></div>
 <div class="line"><a name="l00423"></a><span class="lineno">  423</span>&#160;        <span class="keywordflow">return</span> <a class="code" href="classrlSocket.html#a3b70eecec7f08e38ee0c7d9ee6baf632a887c2201731d9c4f4ae8c971f0e09d75">CONNECT_ERR</a>;</div>
 <div class="line"><a name="l00424"></a><span class="lineno">  424</span>&#160;      }</div>
 <div class="line"><a name="l00425"></a><span class="lineno">  425</span>&#160;    }</div>

diff --git a/doc/rllib/classrlSocket.html b/doc/rllib/classrlSocket.html
@@ -556,7 +556,7 @@ class for encapsulating TCP/IP socket calls
 <div class="line">      <span class="comment">//::printf(&quot;debug: connect ret=%d\n&quot;,ret);</span></div>
 <div class="line">      <span class="keywordflow">if</span>(ret == -1) </div>
 <div class="line">      {</div>
-<div class="line">        <a class="code" href="classrlSocket.html#a3f70186af86837a39592e4bf18076d24">s</a> = -1;</div>
+<div class="line">        <a class="code" href="classrlSocket.html#a112affb864caf6ef57b5f226c1894446">disconnect</a>(); <span class="comment">// close s = os</span></div>
 <div class="line">        <span class="keywordflow">return</span> <a class="code" href="classrlSocket.html#a3b70eecec7f08e38ee0c7d9ee6baf632a887c2201731d9c4f4ae8c971f0e09d75">CONNECT_ERR</a>;</div>
 <div class="line">      }</div>
 <div class="line">    }</div>

diff --git a/rllib/lib/rlmodbusclient.h b/rllib/lib/rlmodbusclient.h
@@ -25,7 +25,7 @@
 This class is for data aqusition over a modbus daemon as created by pvdevelop.
 It communicates over a shared memory and a mailbox according to the pvbrowser principle.
 </pre> */
-class rlModbusClient : public rlMailbox, rlSharedMemory
+class rlModbusClient : public rlMailbox, public rlSharedMemory
 {
   public:
     rlModbusClient(const char *mbxname, const char *shmname, int shmsize);

diff --git a/rllib/lib/rlsocket.cpp b/rllib/lib/rlsocket.cpp
@@ -419,7 +419,7 @@ bindv6:
       //::printf("debug: connect ret=%d\n",ret);
       if(ret == -1) 
       {
-        s = -1;
+        disconnect(); // close s = os
         return CONNECT_ERR;
       }
     }

diff --git a/pvserver/util.cpp b/pvserver/util.cpp
@@ -26,7 +26,7 @@
 
 #include <locale.h>
 
-const char pvserver_version[] = "4.7.3";
+const char pvserver_version[] = "4.7.4";
 
 /* #include "qimage.h" */
 #include <time.h>

diff --git a/pvbrowser/mainwindow.h b/pvbrowser/mainwindow.h
@@ -16,7 +16,7 @@
 #ifndef MAINWINDOW_H
 #define MAINWINDOW_H
 
-#define VERSION "4.7.3"
+#define VERSION "4.7.4"
 
 #include "interpreter.h"
 
